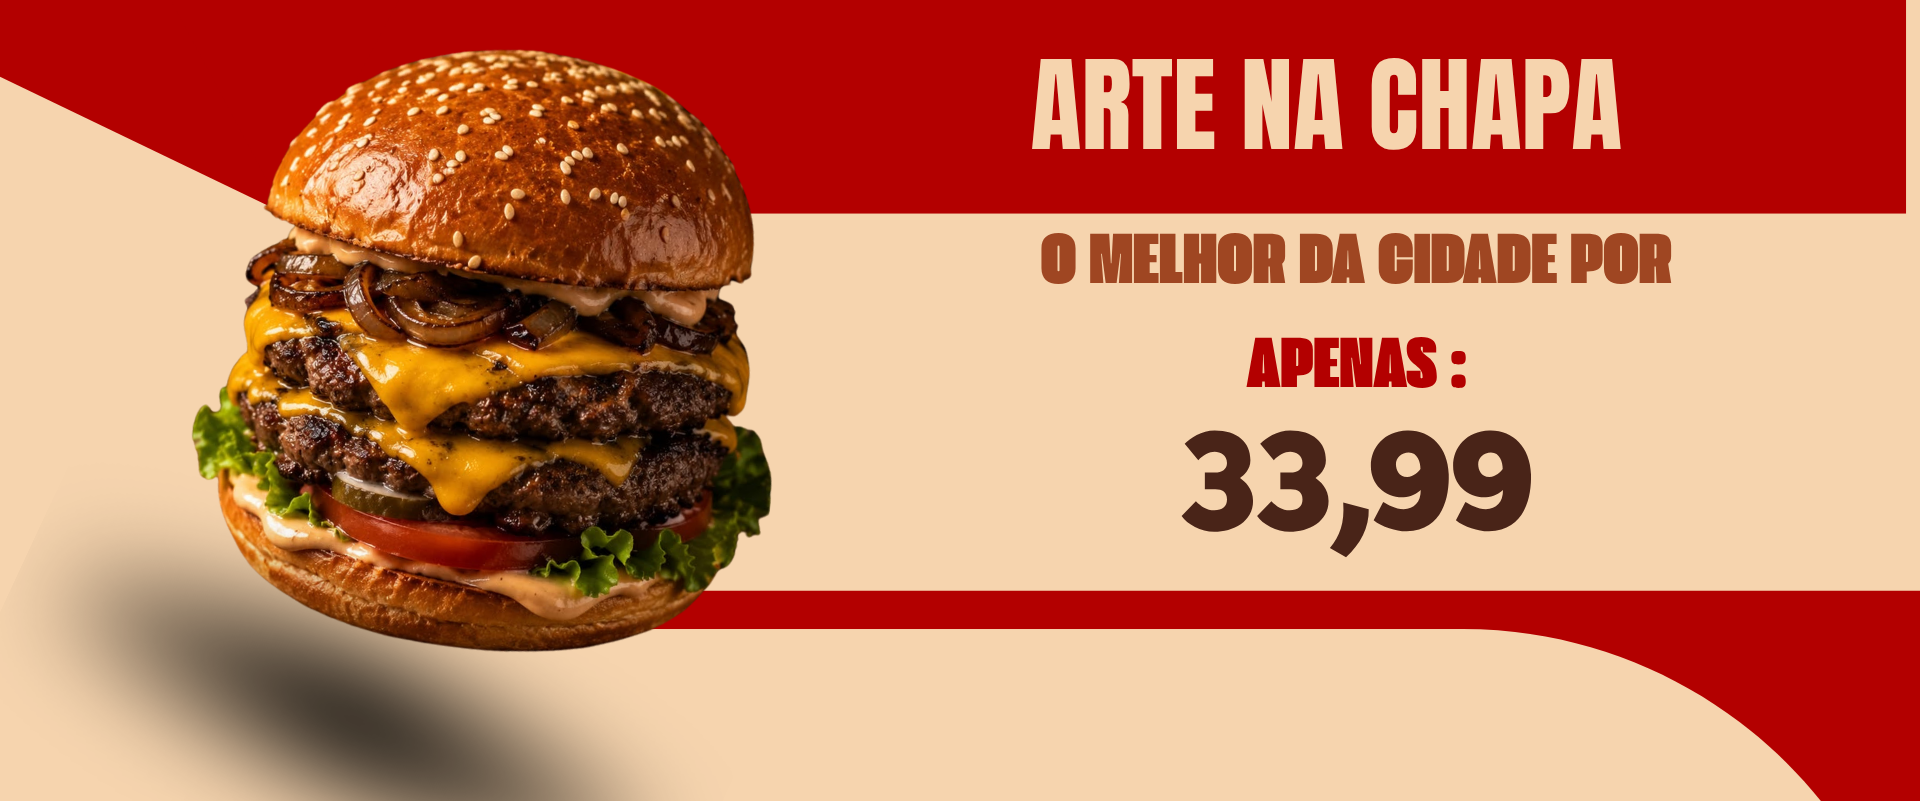
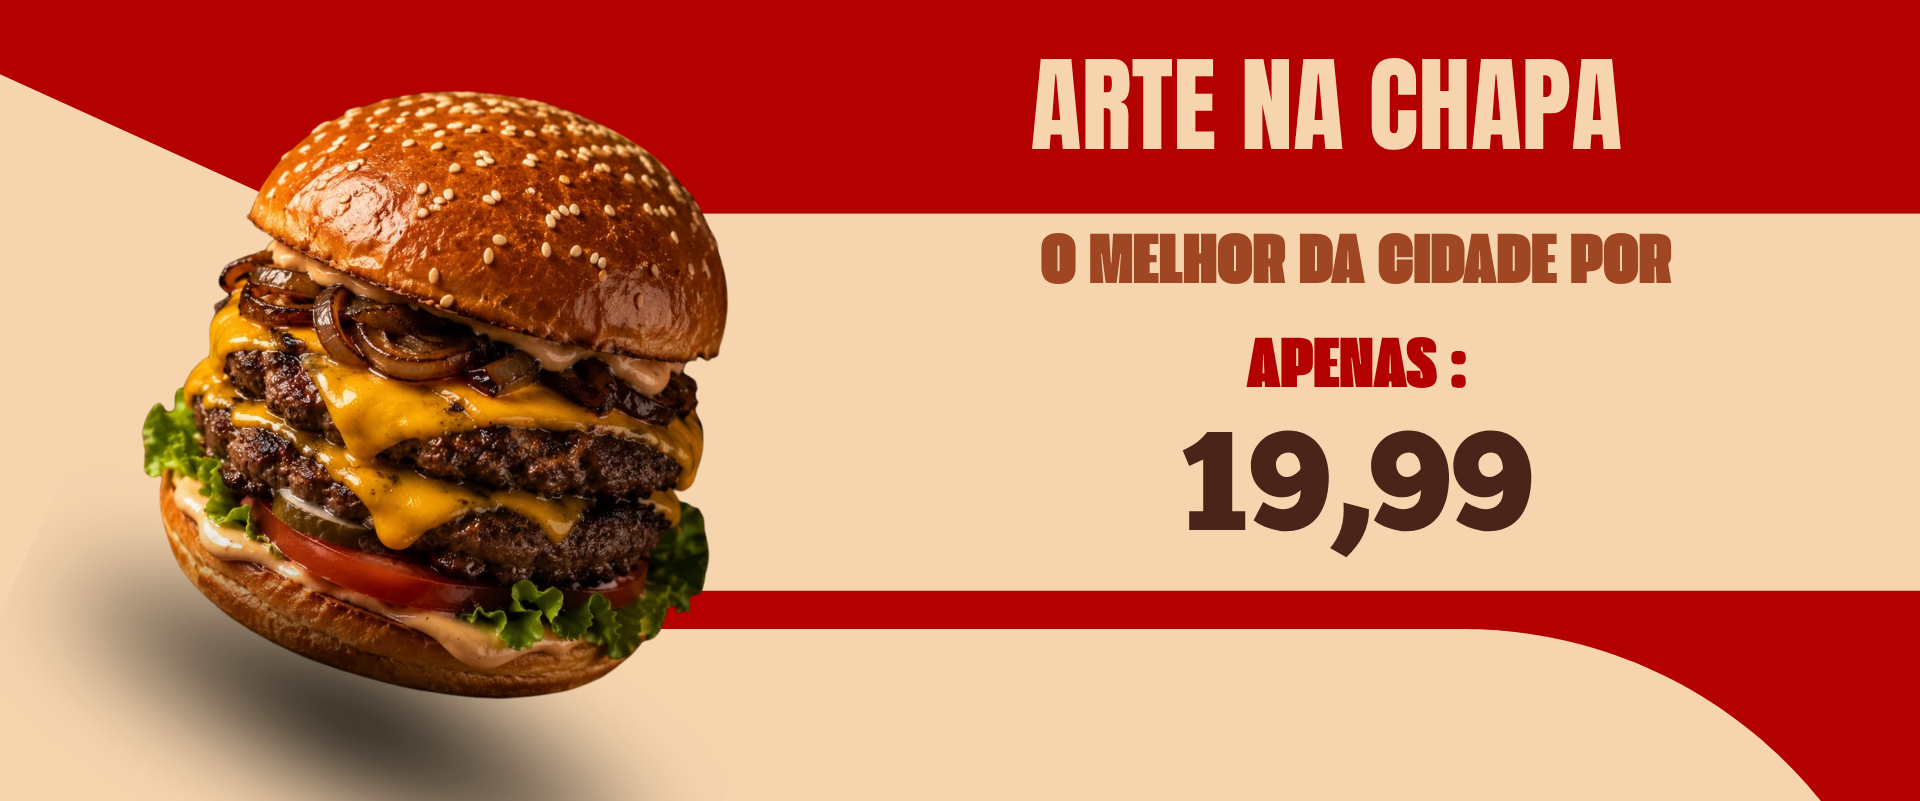
2508

diff --git a/index.html b/index.html
@@ -112,7 +112,7 @@
                 </div>
 
                 <div class="carousel-item">
-                    <img src="img/bannecarr.png"
+                    <img src="img/bannerpromo.webp"
                         class="d-block w-100">
                 </div>
 
